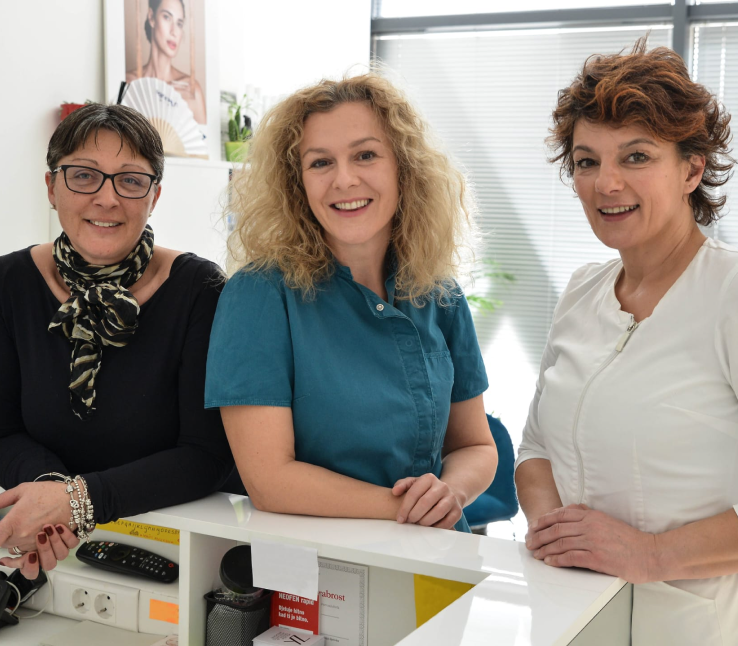
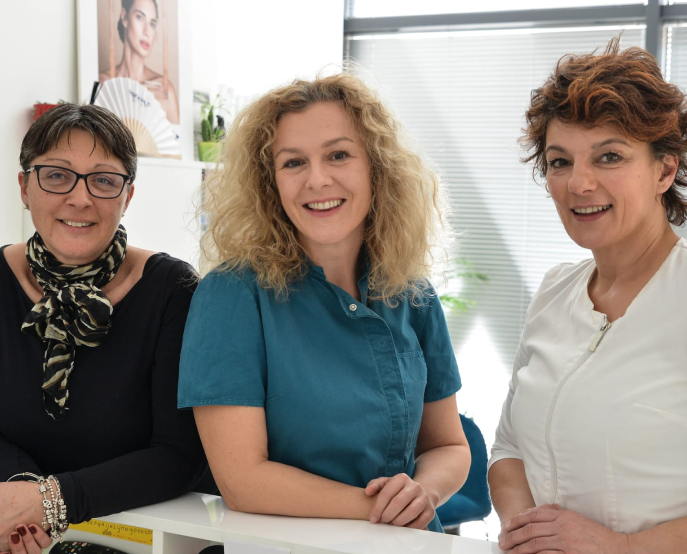
ispravka hero image position crop

diff --git a/src/components/Hero/styles.js b/src/components/Hero/styles.js
@@ -55,7 +55,6 @@ export const PhotoBox = styled.div`
   display: flex;
   width: 807px;
   height: 646px;
-
   background-image: url(${heroimage});
   background-size: cover;
   background-repeat: no-repeat;
@@ -63,6 +62,8 @@ export const PhotoBox = styled.div`
   margin-left: 85px;
   border-radius: 25px 0 0 25px;
   @media screen and (max-width: 1000px) {
+    background-position: -25px 0;
+
     height: 91vw;
     max-height: 650px;
     width: 100%;
